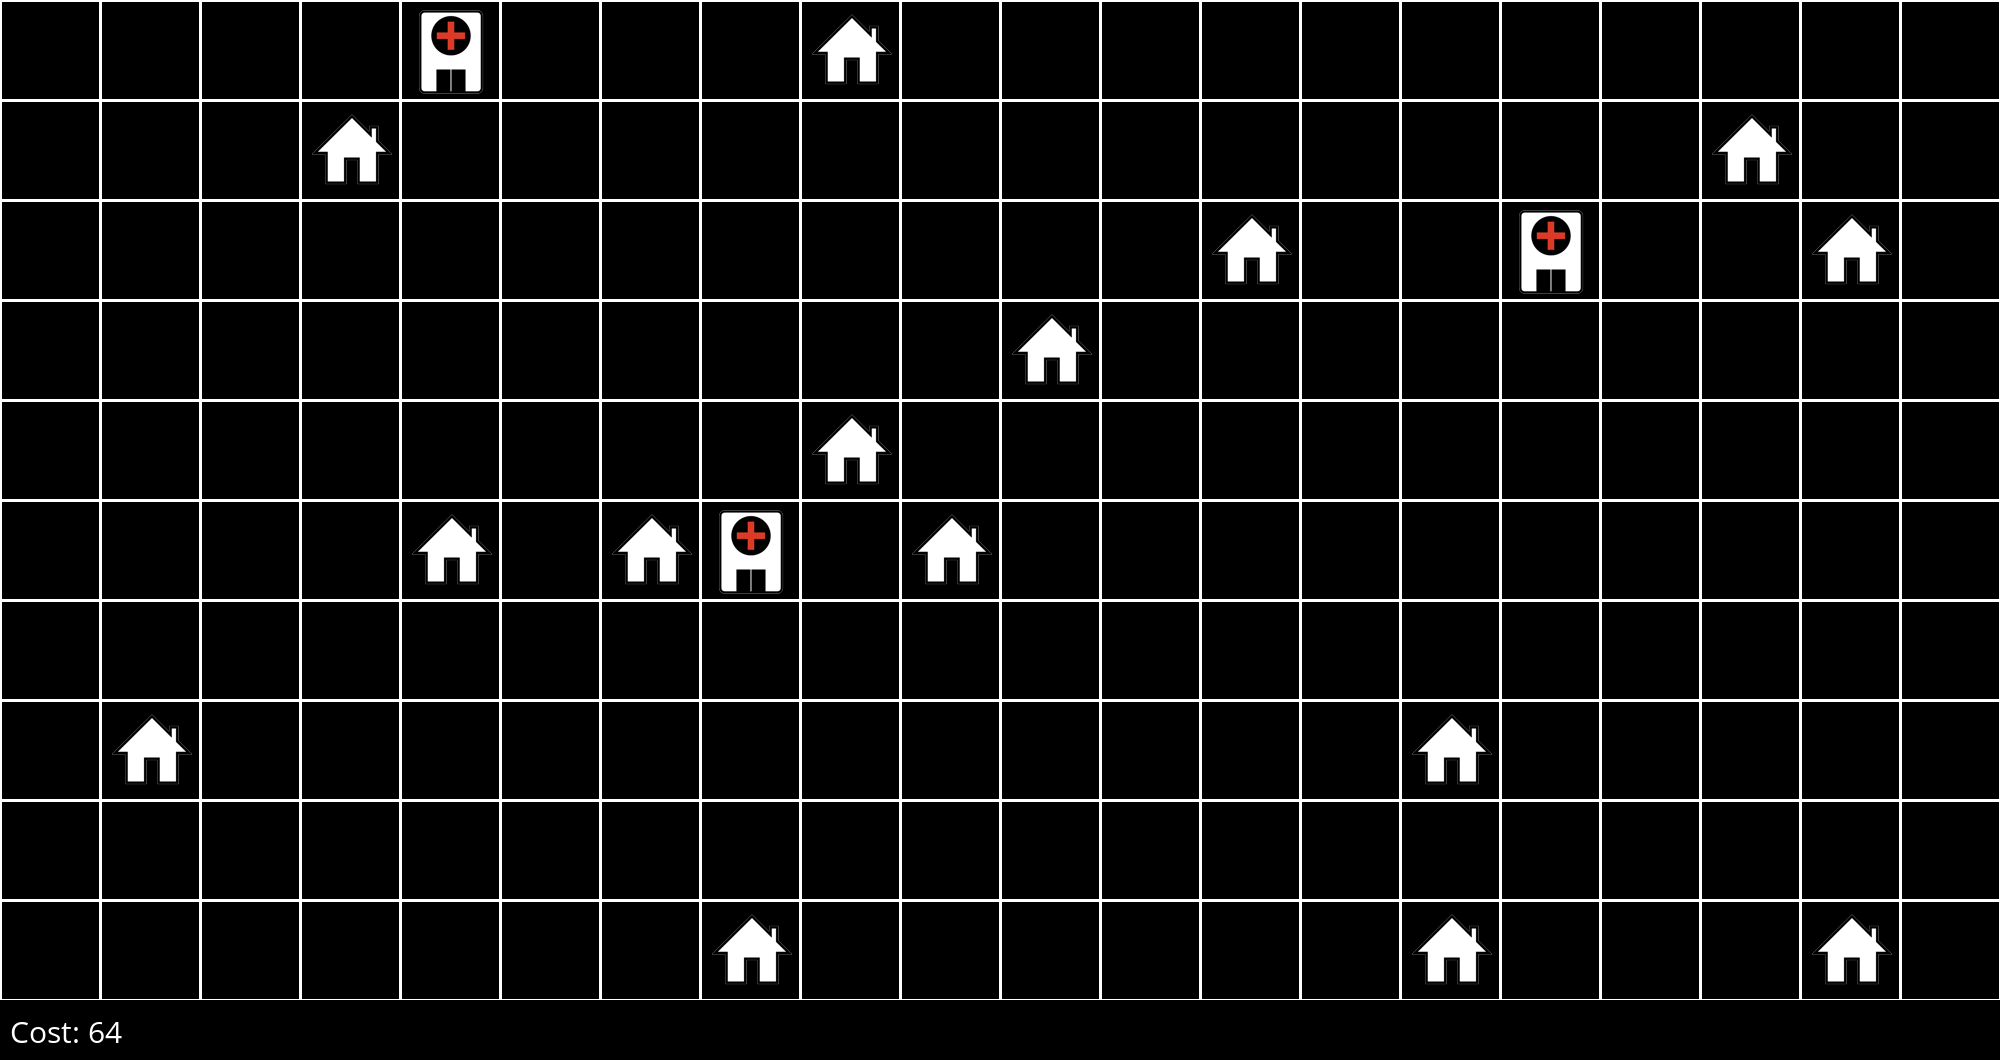
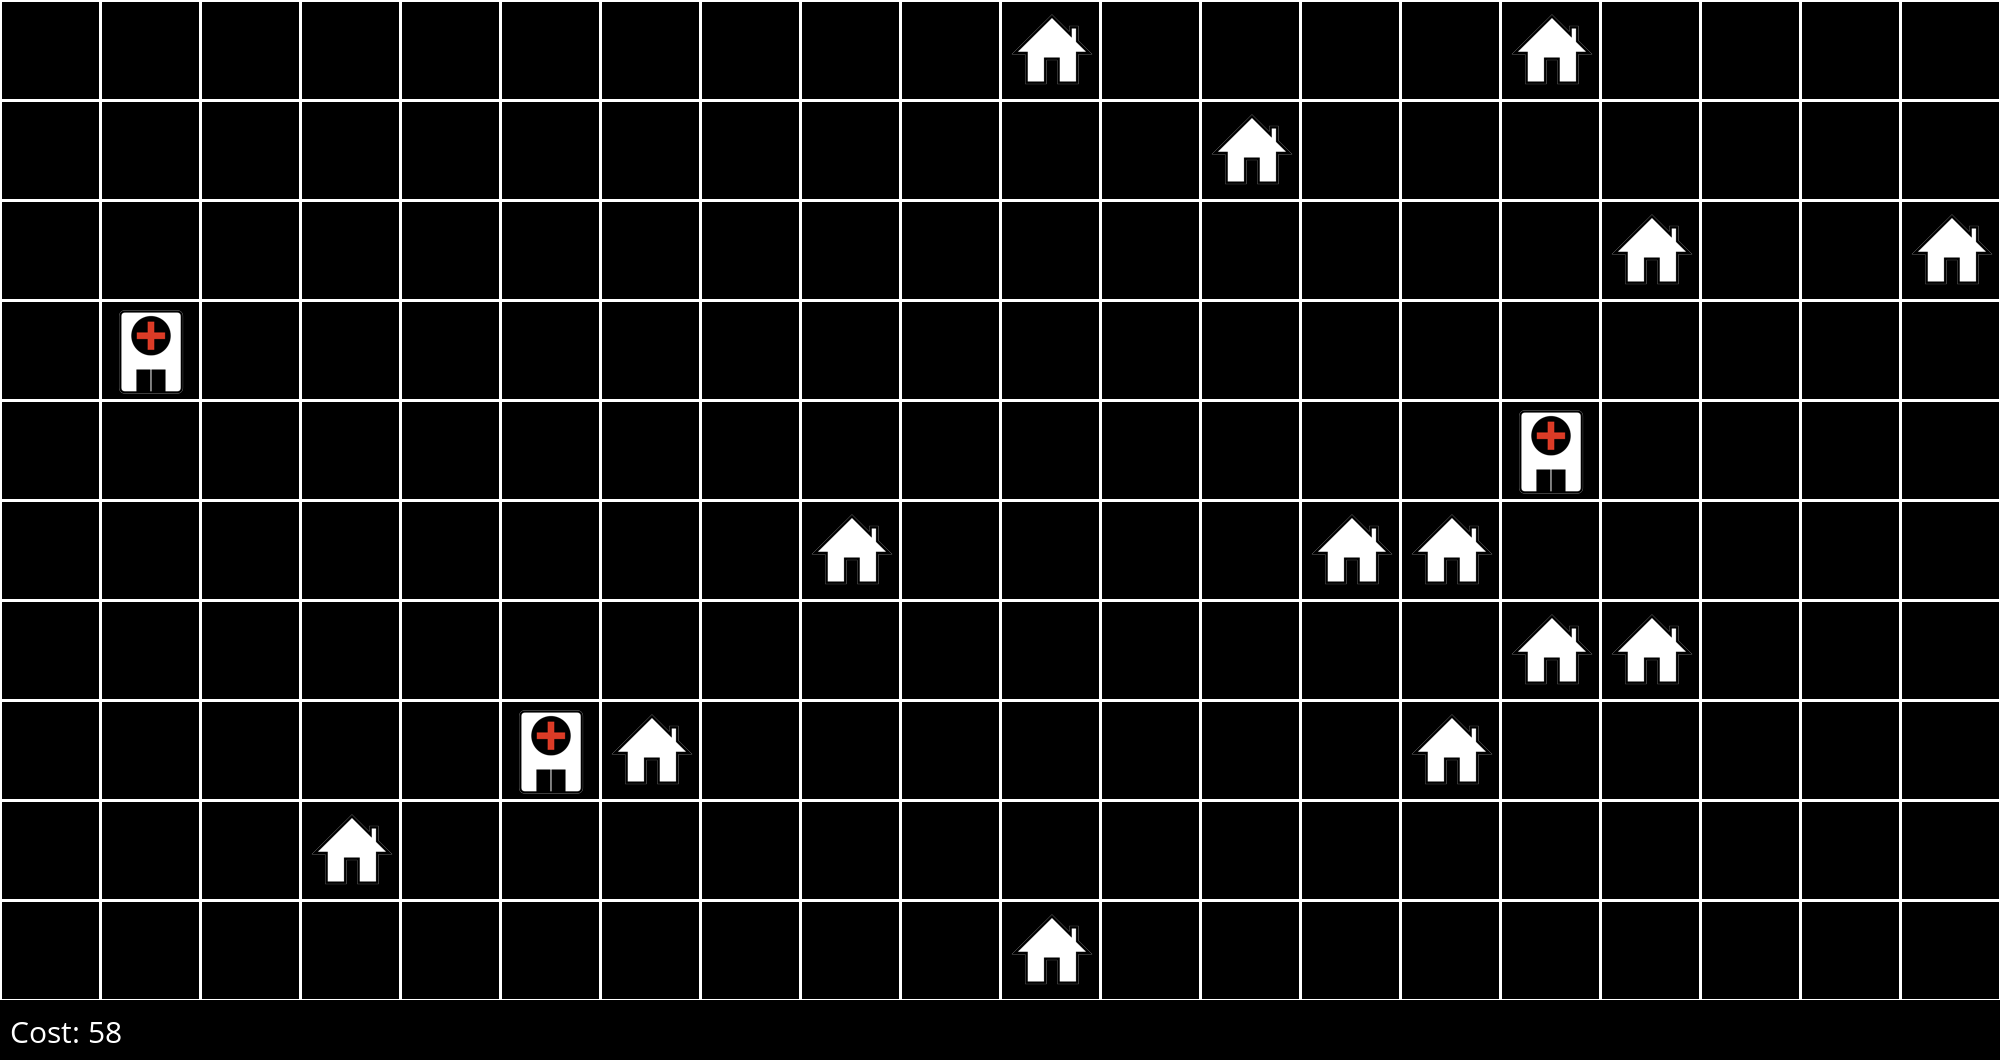
Hospitals - Second 20x Prompt

diff --git a/__devx/CS_50/CS50_AI/Project3/src3/hospitals/hospitals.py b/__devx/CS_50/CS50_AI/Project3/src3/hospitals/hospitals.py
@@ -237,4 +237,24 @@ hospitals = s.random_restart(20, image_prefix="hospitals", log=True)
 # 18: Found new best state: cost 53
 # 19: Found state: cost 62
 
-# Hospital prompt updates
+# Random Restart 20 times - Second Prompt
+# 0: Found new best state: cost 42
+# 1: Found new best state: cost 38
+# 2: Found state: cost 58
+# 3: Found state: cost 44
+# 4: Found state: cost 51
+# 5: Found state: cost 48
+# 6: Found state: cost 58
+# 7: Found state: cost 51
+# 8: Found state: cost 46
+# 9: Found state: cost 54
+# 10: Found state: cost 65
+# 11: Found state: cost 40
+# 12: Found state: cost 48
+# 13: Found state: cost 51
+# 14: Found state: cost 63
+# 15: Found state: cost 42
+# 16: Found state: cost 55
+# 17: Found state: cost 61
+# 18: Found state: cost 54
+# 19: Found state: cost 46
